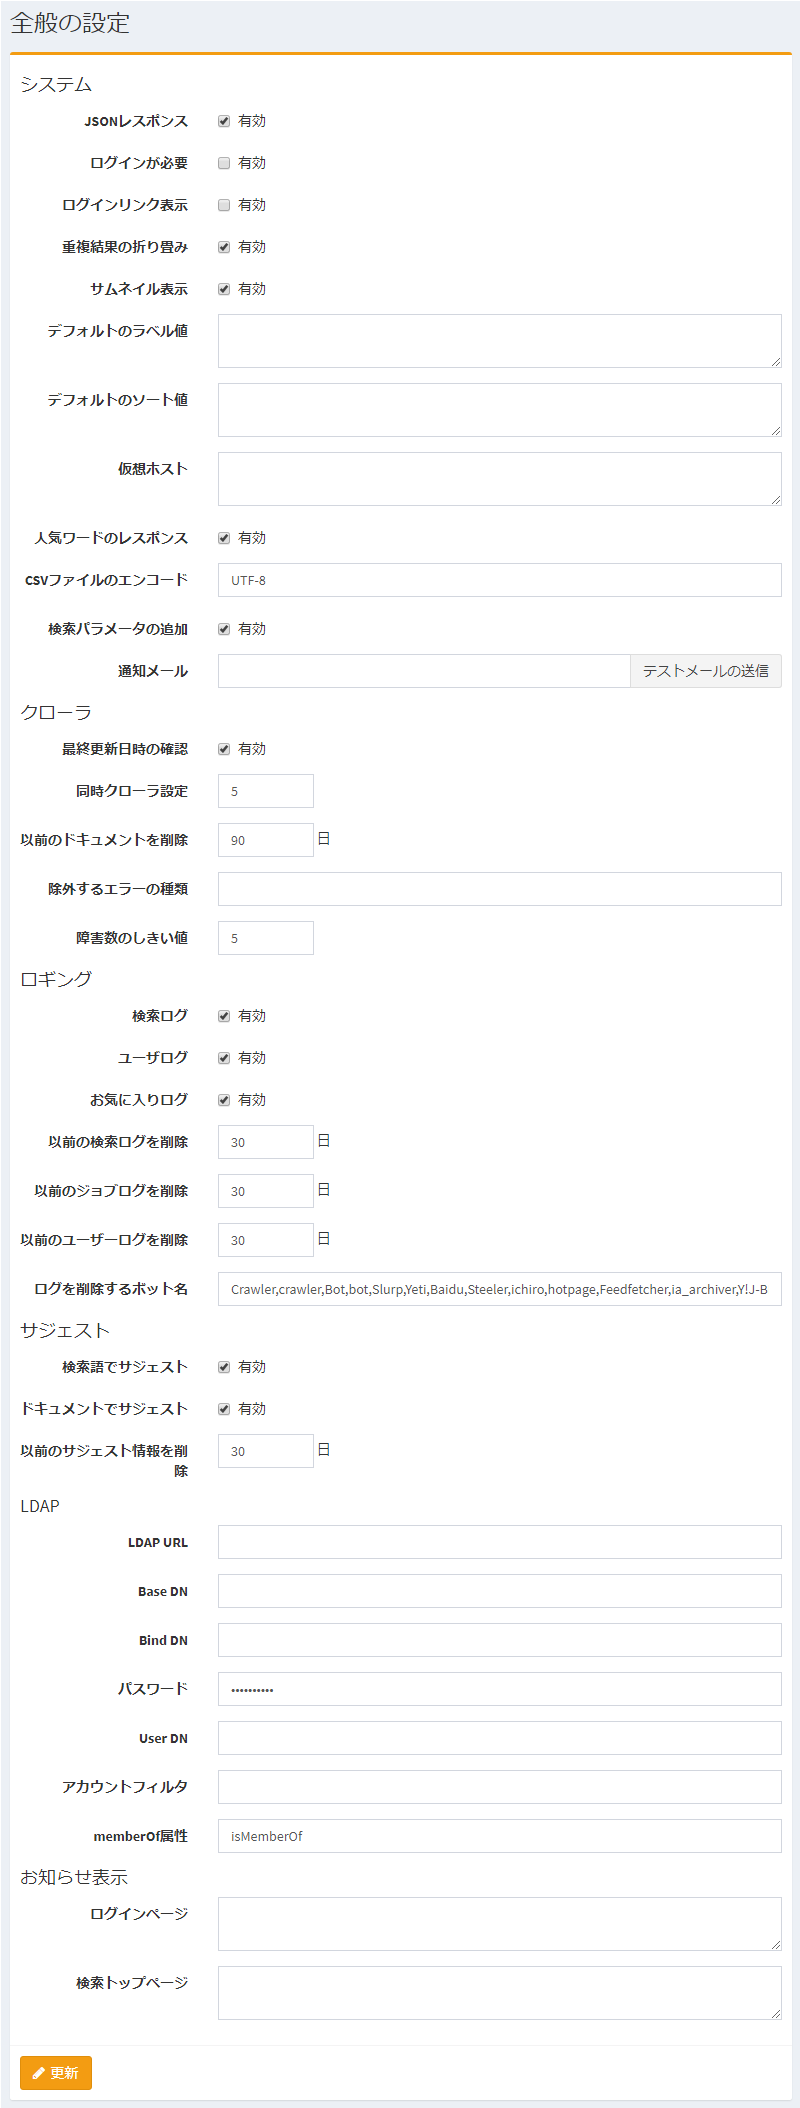
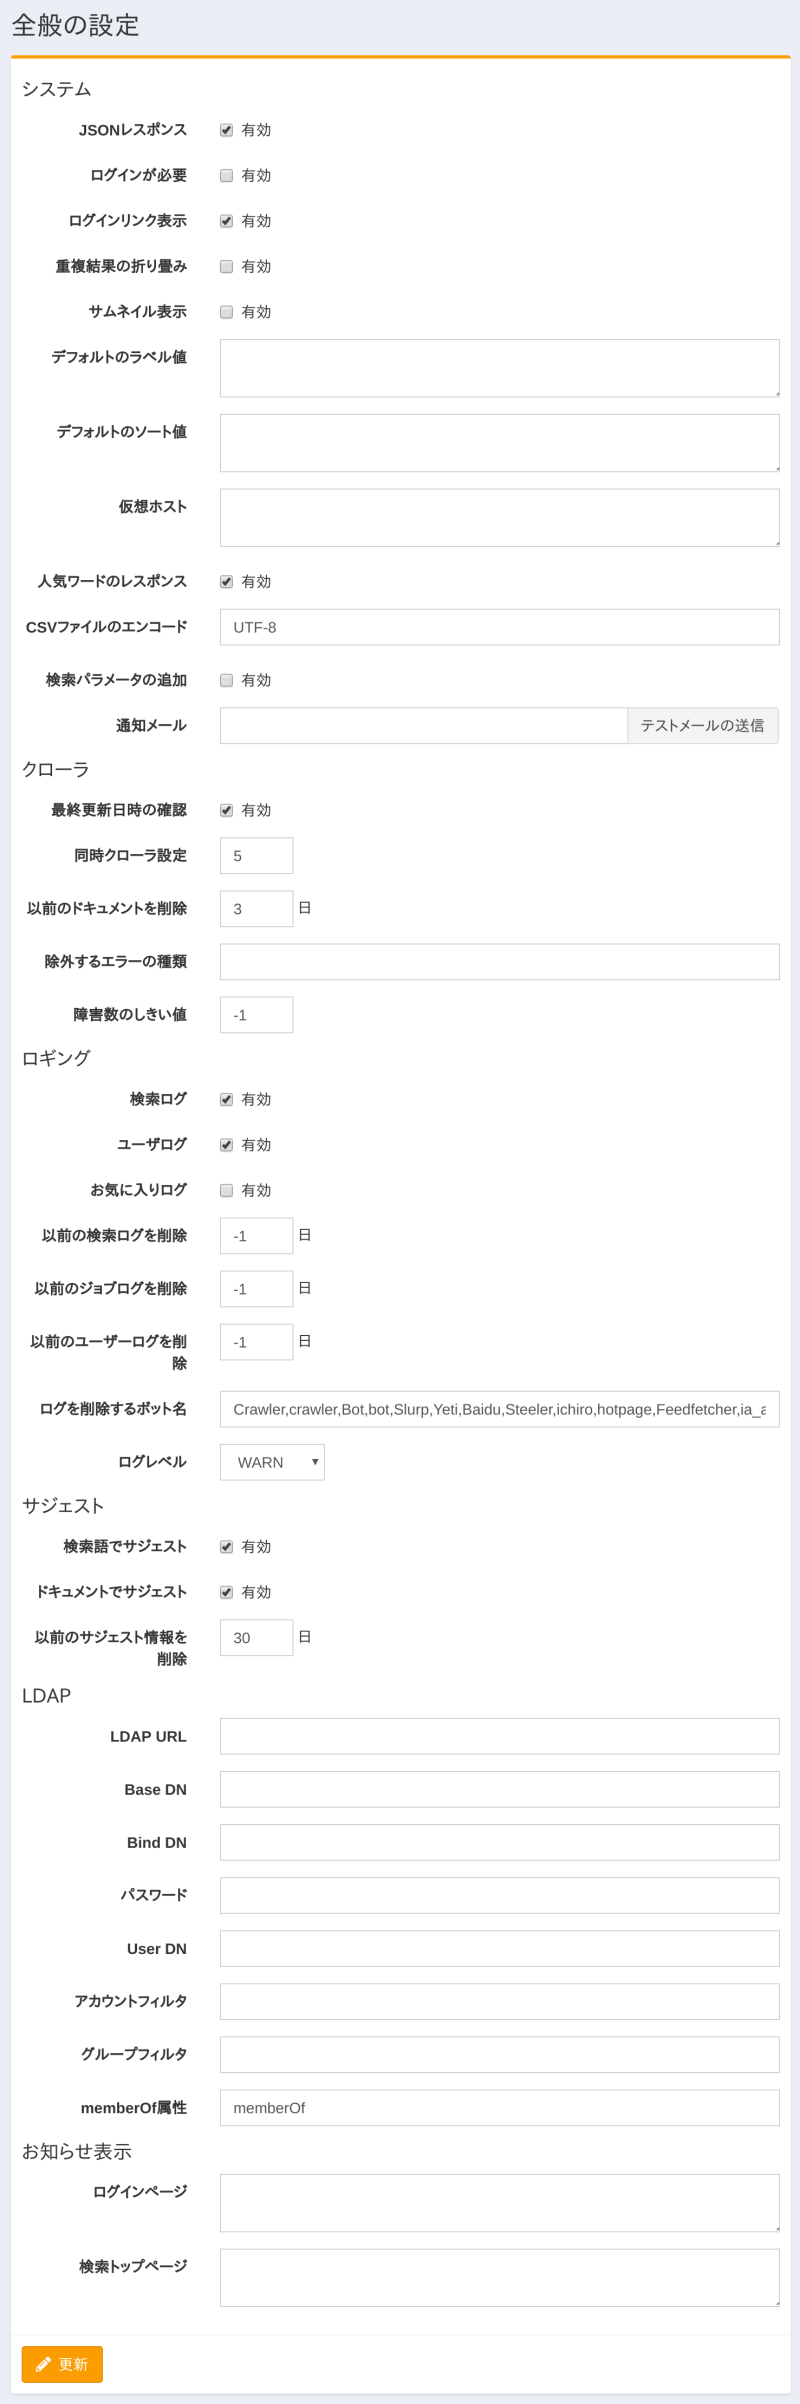
update general-guide

diff --git a/ja/12.4/admin/general-guide.rst b/ja/12.4/admin/general-guide.rst
@@ -83,11 +83,6 @@ CSVファイルのエンコード
 クローラ
 --------
 
-ログを削除するボット名
-::::::::::::::::::::::
-
-検索ログから除外するボット名を指定します。
-
 最終更新日時の確認
 ::::::::::::::::::
 
@@ -145,6 +140,16 @@ CSVファイルのエンコード
 ::::::::::::::::::::::::
 
 指定された日数以前のユーザーログを削除します。
+
+ログを削除するボット名
+::::::::::::::::::::::
+
+検索ログから除外するボット名を指定します。
+
+ログレベル
+::::::::::
+
+fessのアプリケーションログ(fess.log)のログレベルを指定します。
 
 サジェスト
 ----------

diff --git a/ja/12.5/admin/general-guide.rst b/ja/12.5/admin/general-guide.rst
@@ -83,11 +83,6 @@ CSVファイルのエンコード
 クローラ
 --------
 
-ログを削除するボット名
-::::::::::::::::::::::
-
-検索ログから除外するボット名を指定します。
-
 最終更新日時の確認
 ::::::::::::::::::
 
@@ -145,6 +140,16 @@ CSVファイルのエンコード
 ::::::::::::::::::::::::
 
 指定された日数以前のユーザーログを削除します。
+
+ログを削除するボット名
+::::::::::::::::::::::
+
+検索ログから除外するボット名を指定します。
+
+ログレベル
+::::::::::
+
+fessのアプリケーションログ(fess.log)のログレベルを指定します。
 
 サジェスト
 ----------

diff --git a/en/12.4/admin/general-guide.rst b/en/12.4/admin/general-guide.rst
@@ -156,6 +156,11 @@ Bots Name For Purge
 
 Bots names to remove search logs.
 
+Log Level
+:::::::::
+
+Log Level in fess.log.
+
 Suggest
 --------
 

diff --git a/en/12.5/admin/general-guide.rst b/en/12.5/admin/general-guide.rst
@@ -156,6 +156,11 @@ Bots Name For Purge
 
 Bots names to remove search logs.
 
+Log Level
+:::::::::
+
+Log Level in fess.log.
+
 Suggest
 --------
 
